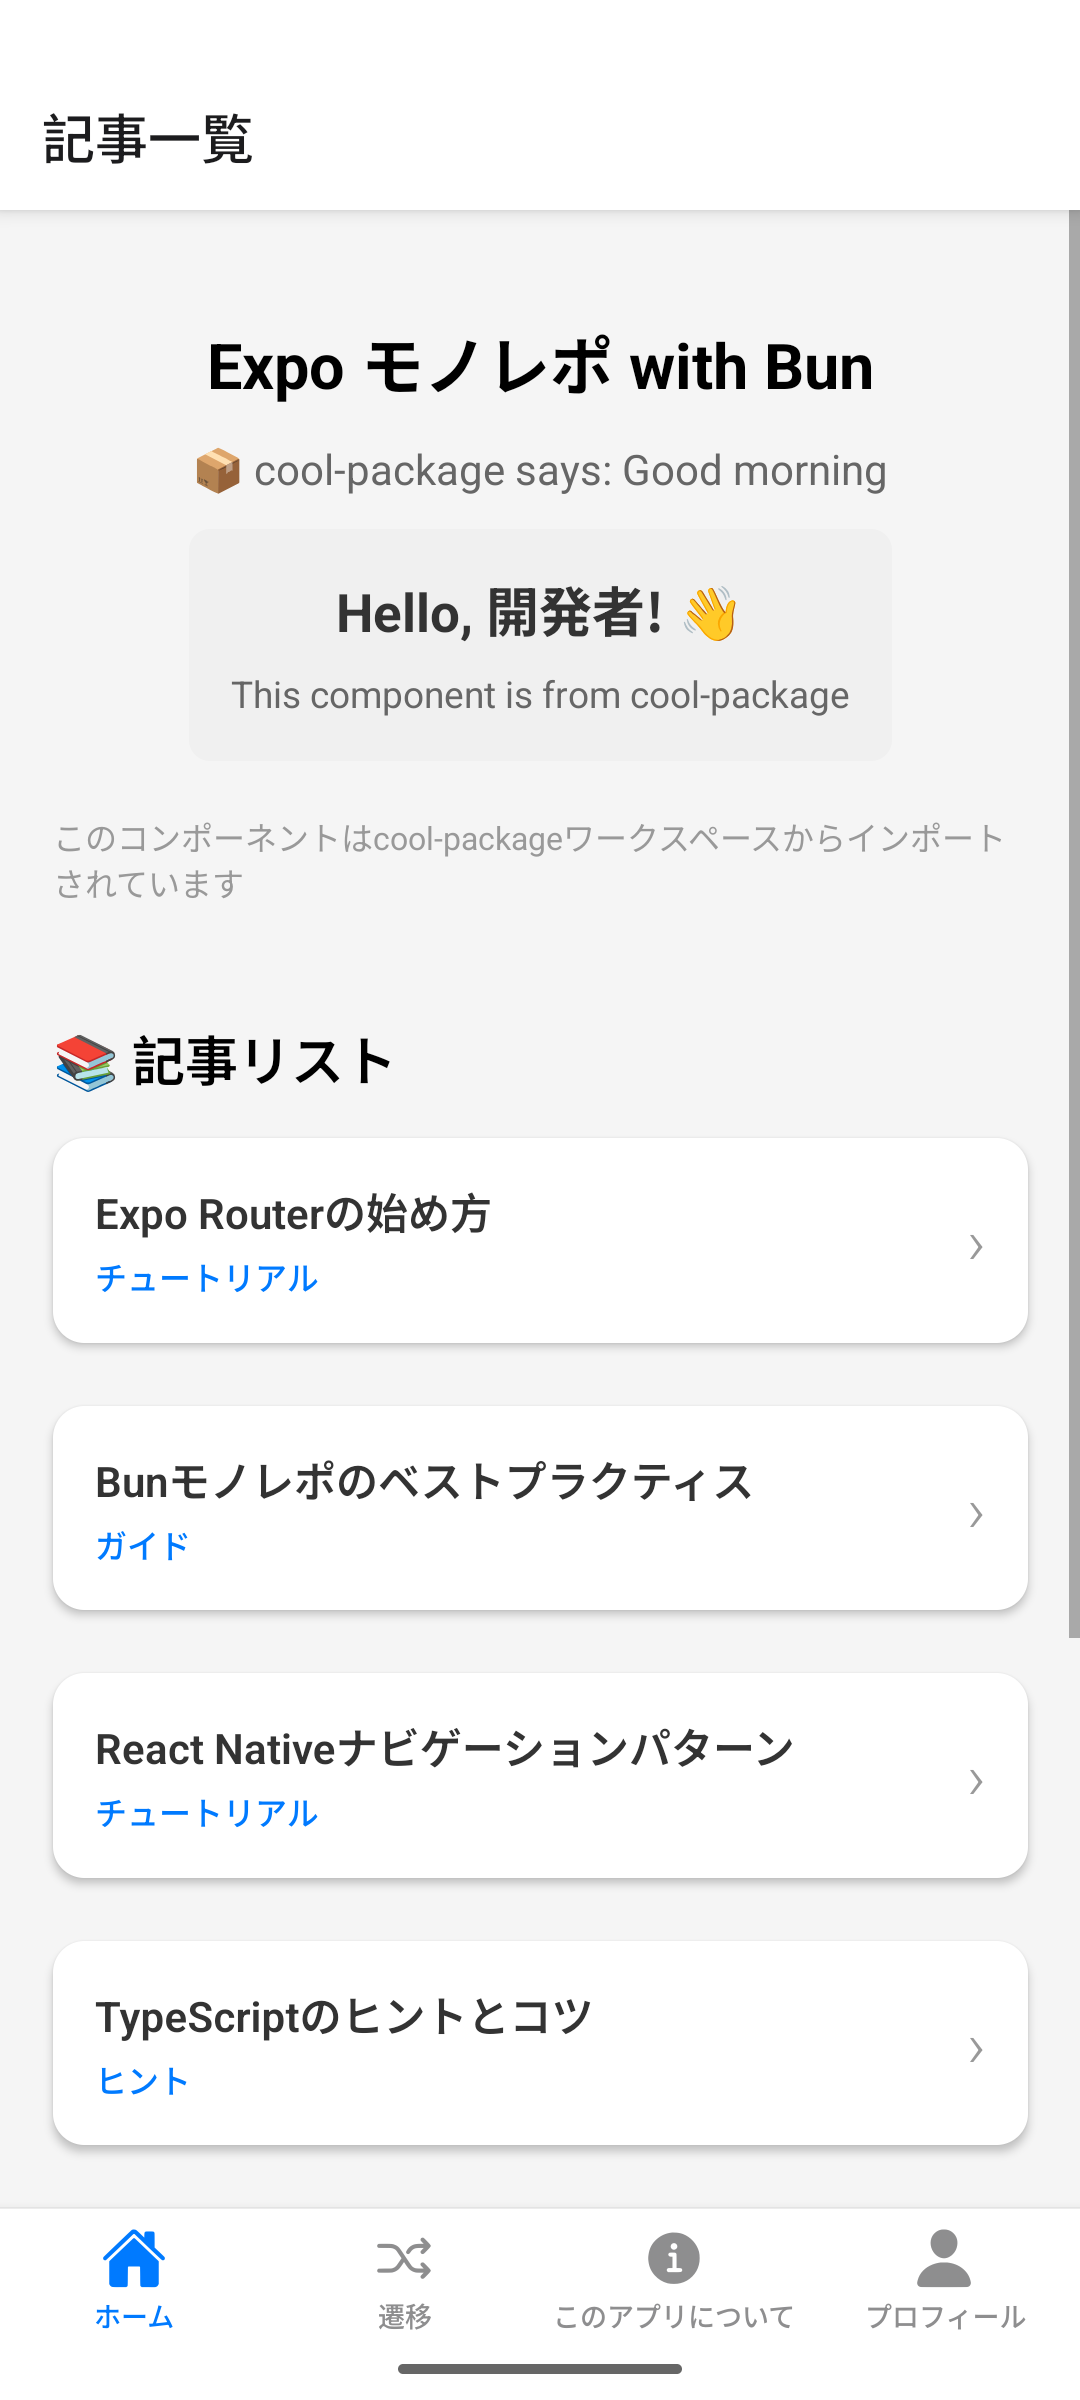
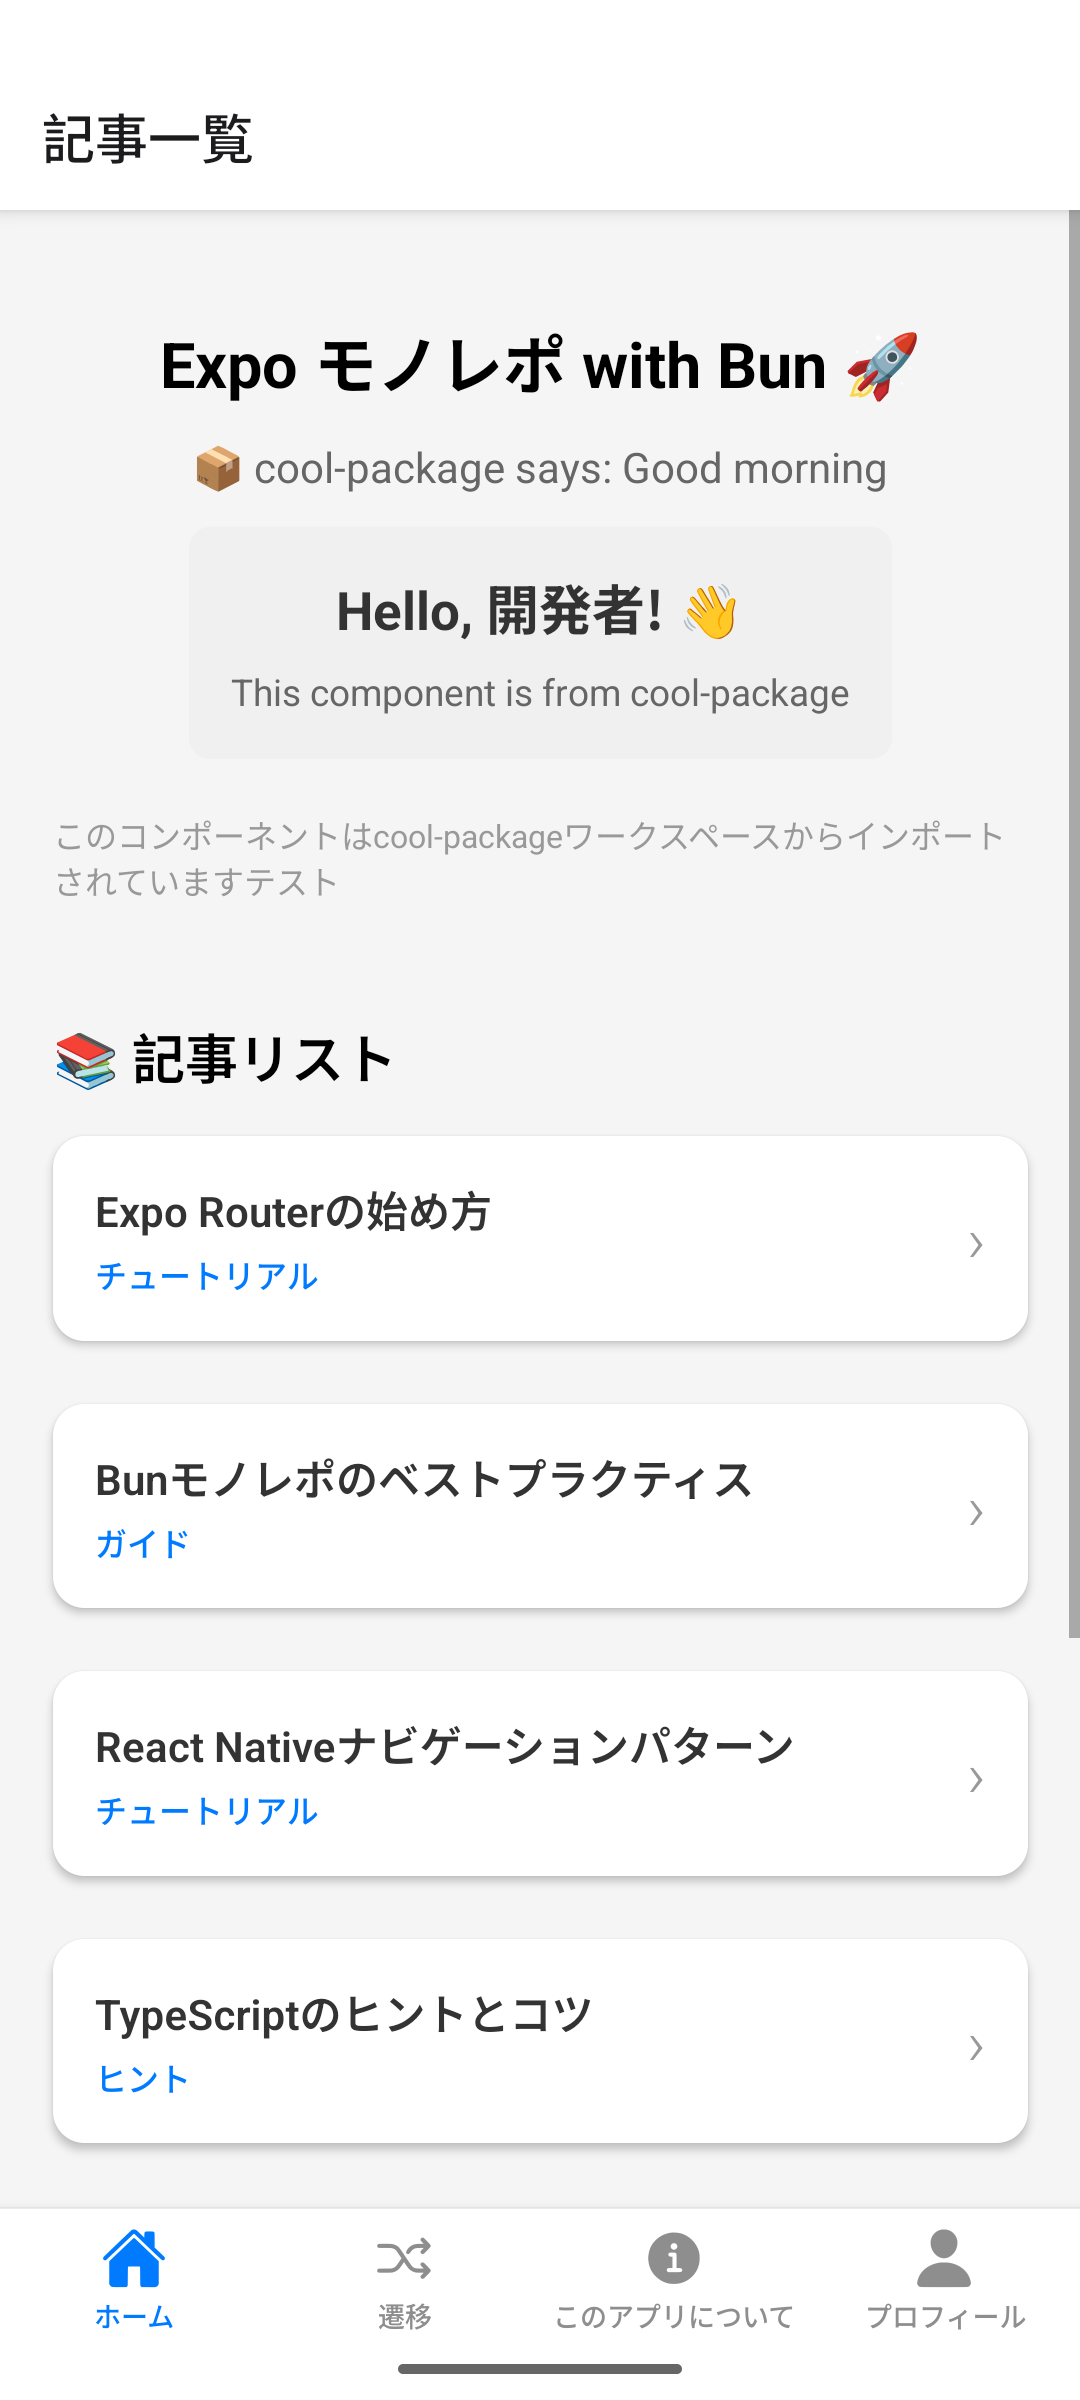
feat: Add VRT configuration and test UI changes
- Add reg-suit + Google Cloud Storage for VRT
- Configure GCS bucket: vrt-sample (asia-northeast1)
- Add reg-keygen-git-hash-plugin for snapshot tracking
- Update .gitignore to exclude VRT working directories and credentials
- Add vrt:run and vrt:update scripts to package.json
- Update Maestro tests to match UI changes
- Add 🚀 emoji to title
- Change button color to green (#34C759)
- Add "テスト" to info text

🤖 Generated with [Claude Code](https://claude.com/claude-code)

diff --git a/apps/cool-app/app/(tabs)/home/index.tsx b/apps/cool-app/app/(tabs)/home/index.tsx
@@ -15,11 +15,11 @@ export default function HomeScreen() {
   return (
     <ScrollView style={styles.scrollView} contentContainerStyle={styles.container}>
       <View style={styles.header}>
-        <Text style={styles.title}>Expo モノレポ with Bun</Text>
+        <Text style={styles.title}>Expo モノレポ with Bun 🚀</Text>
         <Text style={styles.subtitle}>{formatMessage(getGreetingTime())}</Text>
         <Greeting name="開発者" />
         <Text style={styles.info}>
-          このコンポーネントはcool-packageワークスペースからインポートされています
+          このコンポーネントはcool-packageワークスペースからインポートされていますテスト
         </Text>
       </View>
 
@@ -146,7 +146,7 @@ const styles = StyleSheet.create({
   link: {
     paddingVertical: 12,
     paddingHorizontal: 24,
-    backgroundColor: "#007AFF",
+    backgroundColor: "#34C759",
     borderRadius: 8,
   },
   linkText: {
